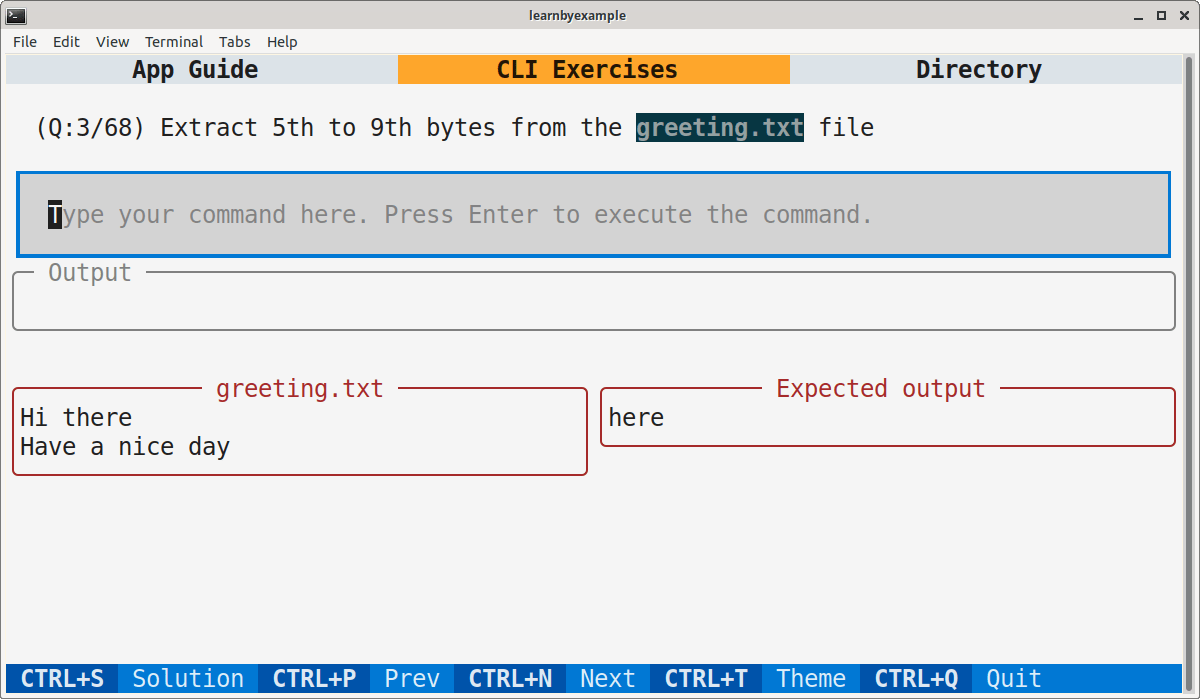
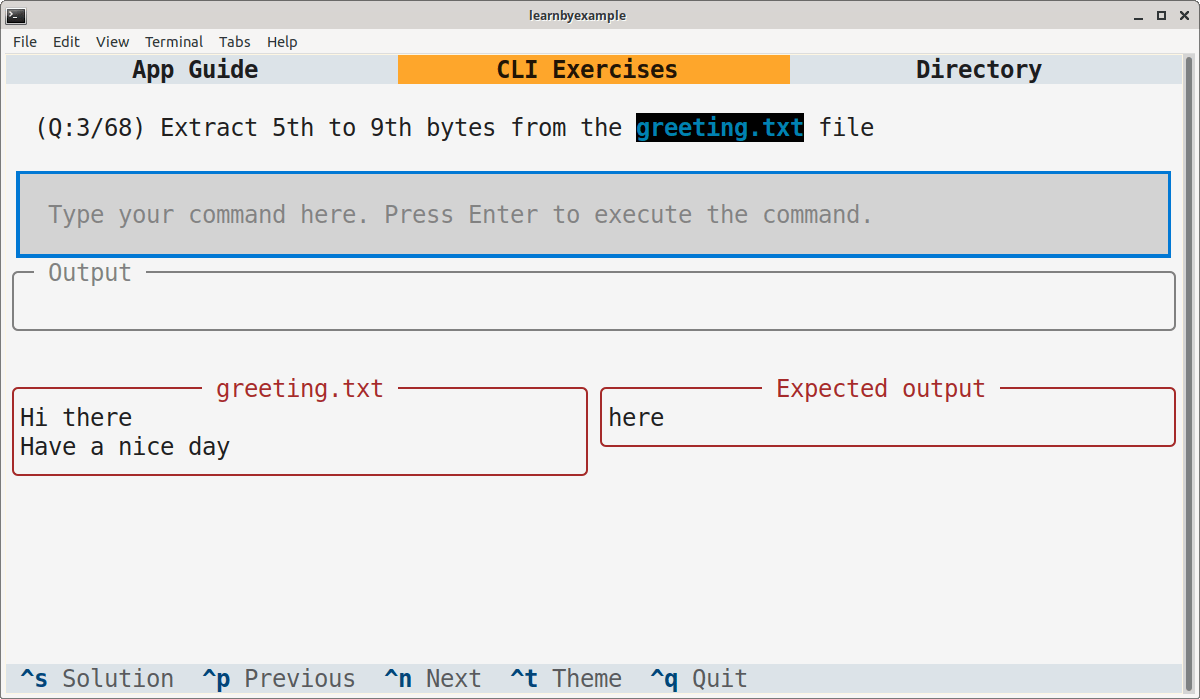
changed dynamic container code to not use mount

Changed region(s): [[0.0, 0.9313, 0.9867, 0.9914], [0.5242, 0.1502, 0.6783, 0.2103], [0.0308, 0.2704, 0.0617, 0.3305]]

diff --git a/CLI-Exercises/cli_exercises.py b/CLI-Exercises/cli_exercises.py
@@ -16,7 +16,7 @@ class CLIExercisesApp(App):
     CSS_PATH = SCRIPT_DIR.joinpath('cli_exercises.css')
     BINDINGS = [
         Binding('ctrl+s', 'show_solution', 'Solution', show=True),
-        Binding('ctrl+p', 'previous', 'Prev', show=True),
+        Binding('ctrl+p', 'previous', 'Previous', show=True),
         Binding('ctrl+n', 'next', 'Next', show=True),
         Binding('f1', 'app_guide', 'App Guide', show=False),
         Binding('f2', 'cli_exercises', 'CLI Exercises', show=False),
@@ -136,26 +136,26 @@ class CLIExercisesApp(App):
         self.ref_solution = self.questions[self.q_idx]['ref_solution']
 
         self.h_ip_op.remove()
-        v_ip = Vertical(classes='ip_op_container')
-        v_op = Vertical(classes='ip_op_container')
         ip_files = self.questions[self.q_idx]['ip_file']
-        if ip_files:
-            self.h_ip_op = Horizontal(v_ip, v_op, classes='container')
-        else:
-            self.h_ip_op = v_op
-        self.v_exercises.mount(self.h_ip_op)
-
+        v_ip_widgets = []
         for ip_file in ip_files:
             with open(ip_file, encoding='ascii') as f:
                 ip_txt = self.trim(f.read())
             l_ip = Label(ip_txt, classes='ip_op', markup=False)
             l_ip.border_title = ip_file
-            v_ip.mount(l_ip)
+            v_ip_widgets.append(l_ip)
 
         self.op_txt = self.trim(self.questions[self.q_idx]['op_file'])
         l_op = Label(self.op_txt, classes='ip_op', markup=False)
         l_op.border_title = 'Expected output'
-        v_op.mount(l_op)
+
+        v_ip = Vertical(*v_ip_widgets, classes='ip_op_container')
+        v_op = Vertical(l_op, classes='ip_op_container')
+        if ip_files:
+            self.h_ip_op = Horizontal(v_ip, v_op, classes='container')
+        else:
+            self.h_ip_op = v_op
+        self.v_exercises.mount(self.h_ip_op)
 
         if self.q_idx in self.user_progress:
             self.set_cmd(self.user_progress[self.q_idx][0])
